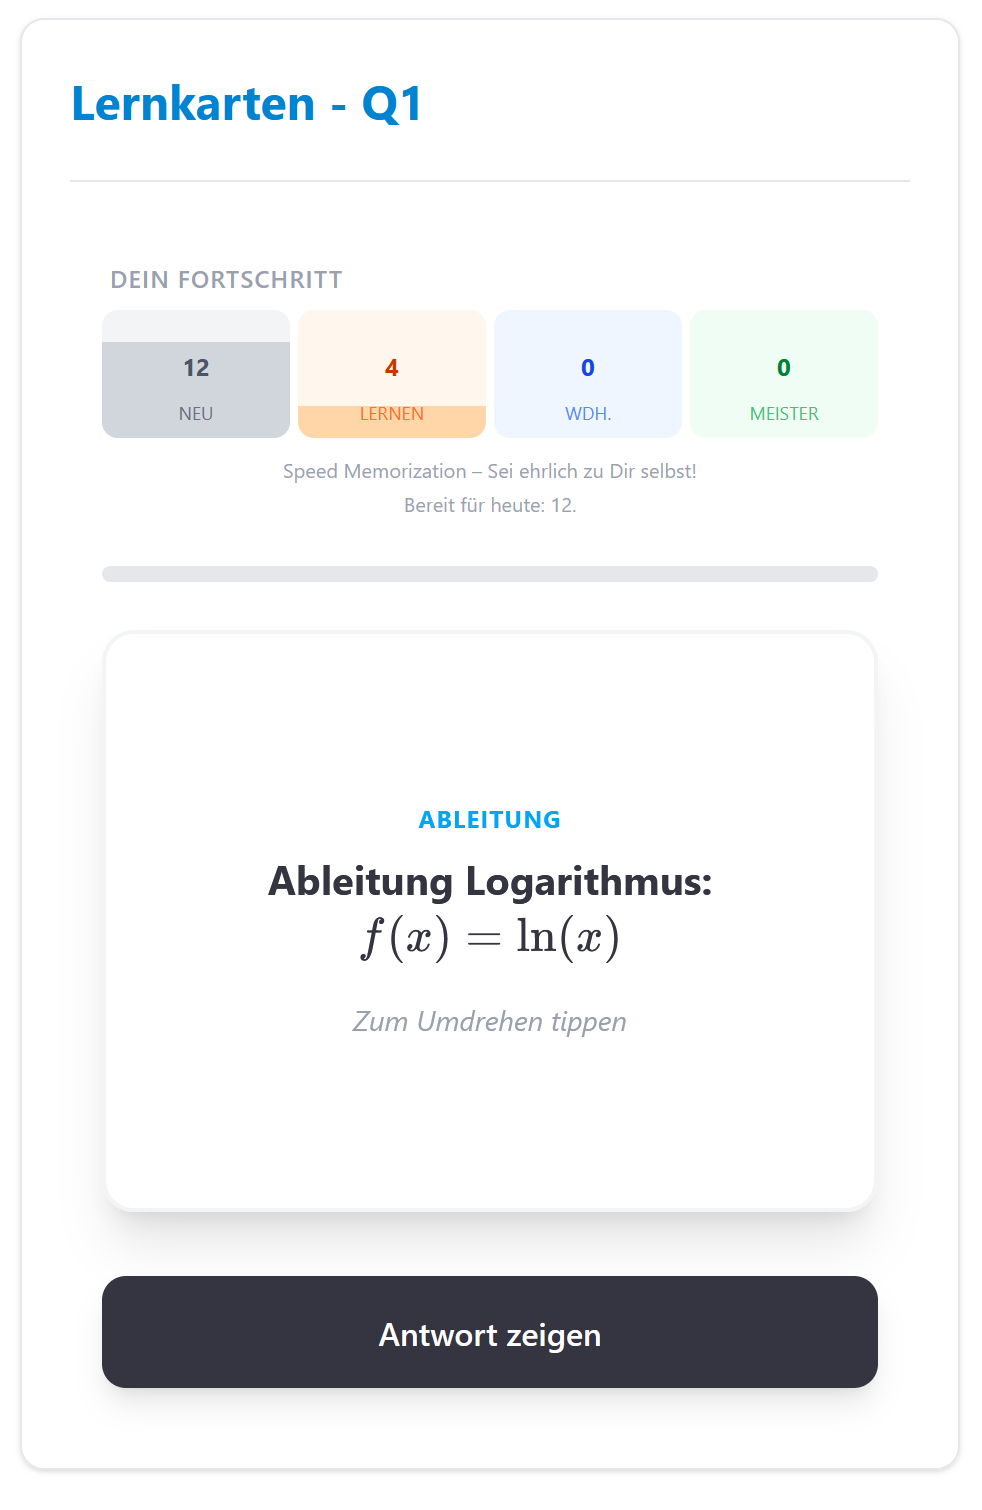
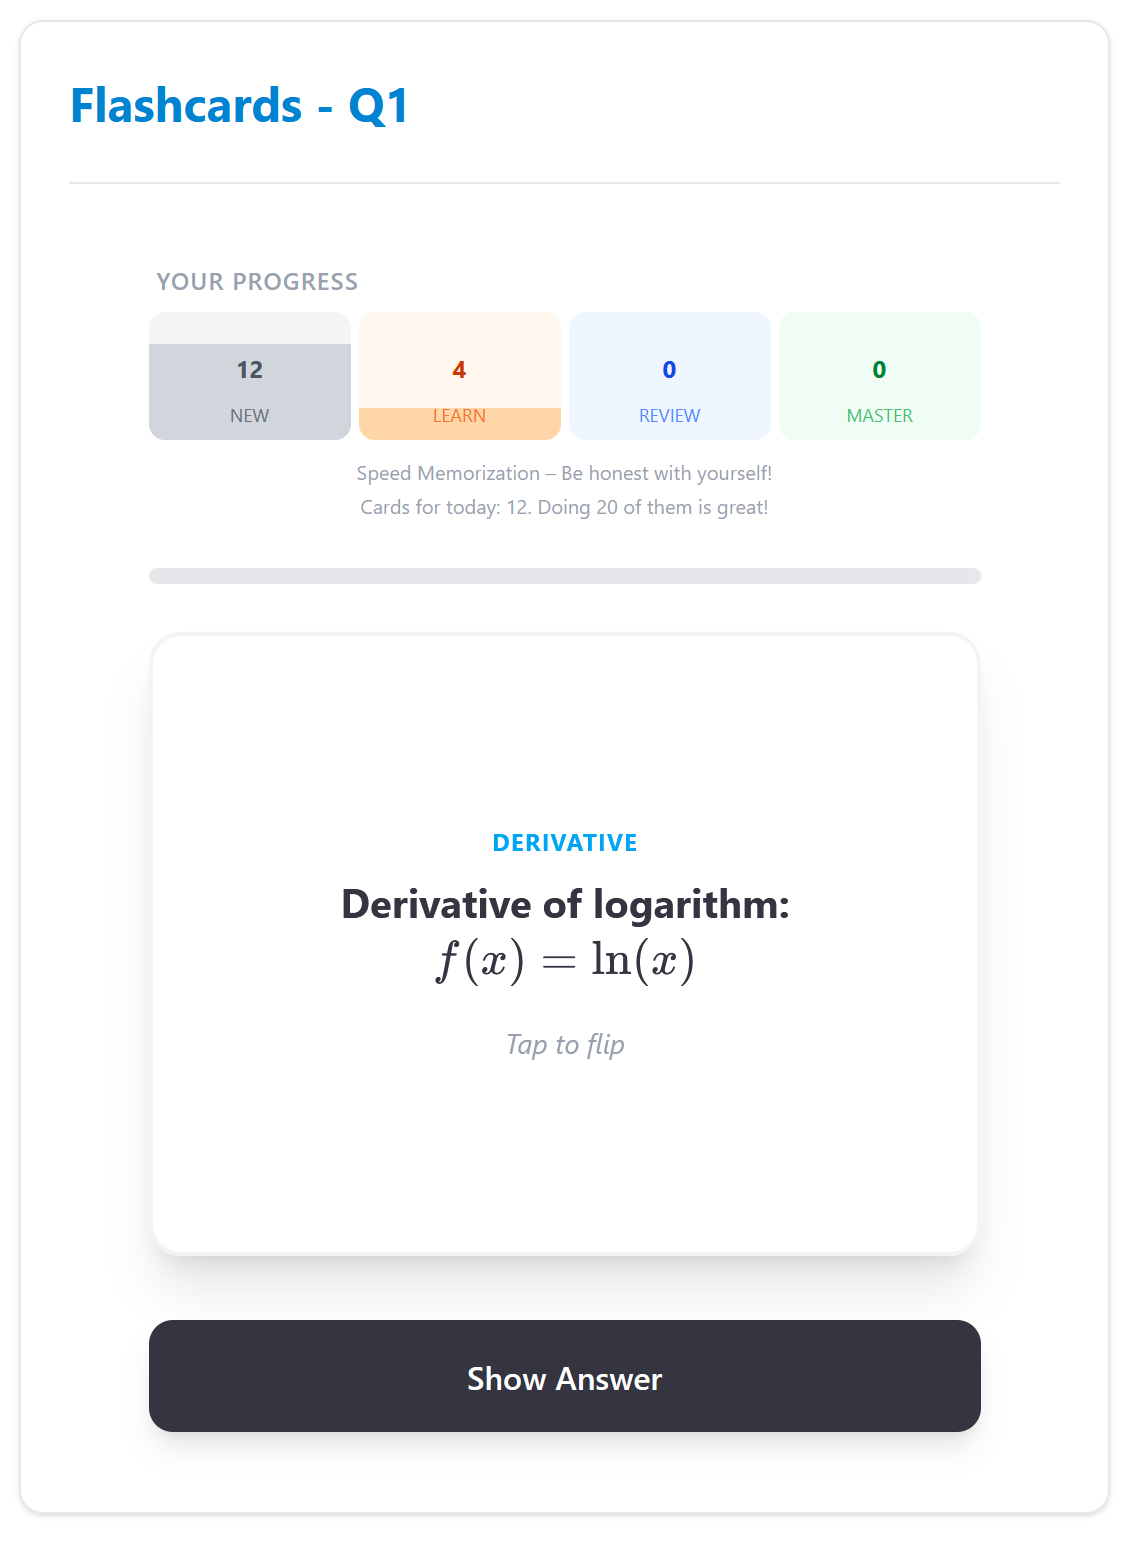
whitepaper update + strict mode

diff --git a/app/src/components/PersonalCurriculumSetup.tsx b/app/src/components/PersonalCurriculumSetup.tsx
@@ -26,7 +26,8 @@ interface PersonalCurriculumSetupProps {
     rootLandscapeId?: string
     initialStrategy?: 'RANDOM' | 'SEQUENTIAL'
     initialAutoPilot?: boolean
-    onPreferencesChange?: (strategy: 'RANDOM' | 'SEQUENTIAL', autoPilot: boolean) => void
+    initialStrictMode?: boolean
+    onPreferencesChange?: (strategy: 'RANDOM' | 'SEQUENTIAL', autoPilot: boolean, strictMode: boolean) => void
 }
 
 export const PersonalCurriculumSetup: React.FC<PersonalCurriculumSetupProps> = ({
@@ -38,6 +39,7 @@ export const PersonalCurriculumSetup: React.FC<PersonalCurriculumSetupProps> = (
     rootLandscapeId,
     initialStrategy = 'RANDOM',
     initialAutoPilot = false,
+    initialStrictMode = false,
     onPreferencesChange,
 }) => {
     const computedInitial = React.useMemo(() => {
@@ -52,6 +54,7 @@ export const PersonalCurriculumSetup: React.FC<PersonalCurriculumSetupProps> = (
     const [config, setConfig] = useState<PersonalCurriculumConfig>(computedInitial)
     const [strategy, setStrategy] = useState<'RANDOM' | 'SEQUENTIAL'>(initialStrategy)
     const [autoPilot, setAutoPilot] = useState<boolean>(initialAutoPilot)
+    const [strictMode, setStrictMode] = useState<boolean>(initialStrictMode)
     const [expanded, setExpanded] = useState<Set<string>>(new Set())
 
     // Update config when initialConfig changes (e.g. loaded from backend)
@@ -62,16 +65,22 @@ export const PersonalCurriculumSetup: React.FC<PersonalCurriculumSetupProps> = (
     useEffect(() => {
         setStrategy(initialStrategy)
         setAutoPilot(initialAutoPilot)
-    }, [initialStrategy, initialAutoPilot])
+        setStrictMode(initialStrictMode)
+    }, [initialStrategy, initialAutoPilot, initialStrictMode])
 
     const handleStrategyChange = (newStrategy: 'RANDOM' | 'SEQUENTIAL') => {
         setStrategy(newStrategy)
-        onPreferencesChange?.(newStrategy, autoPilot)
+        onPreferencesChange?.(newStrategy, autoPilot, strictMode)
     }
 
     const handleAutoPilotChange = (newAutoPilot: boolean) => {
         setAutoPilot(newAutoPilot)
-        onPreferencesChange?.(strategy, newAutoPilot)
+        onPreferencesChange?.(strategy, newAutoPilot, strictMode)
+    }
+
+    const handleStrictModeChange = (newStrictMode: boolean) => {
+        setStrictMode(newStrictMode)
+        onPreferencesChange?.(strategy, autoPilot, newStrictMode)
     }
 
     const toggleSelection = (landscapeId: string, isRoot: boolean) => {
@@ -267,6 +276,19 @@ export const PersonalCurriculumSetup: React.FC<PersonalCurriculumSetupProps> = (
                                     <div>
                                         <span className="text-sm font-medium text-text-primary">Autopilot aktivieren</span>
                                         <p className="text-xs text-text-secondary">Startet automatisch das nächste Ziel nach Abschluss.</p>
+                                    </div>
+                                </label>
+
+                                <label className="flex items-center gap-2 cursor-pointer">
+                                    <input
+                                        type="checkbox"
+                                        checked={strictMode}
+                                        onChange={(e) => handleStrictModeChange(e.target.checked)}
+                                        className="w-4 h-4 rounded text-amber-600 focus:ring-amber-500 border-gray-300 bg-white dark:bg-slate-800 dark:border-slate-600"
+                                    />
+                                    <div>
+                                        <span className="text-sm font-medium text-text-primary">Strict Mode aktivieren</span>
+                                        <p className="text-xs text-text-secondary">Prüft alle Voraussetzungen global, auch außerhalb deines aktuellen Fokus.</p>
                                     </div>
                                 </label>
                             </div>

diff --git a/app/src/views/LearnerView.tsx b/app/src/views/LearnerView.tsx
@@ -785,8 +785,8 @@ export const LearnerView: React.FC<LearnerViewProps> = ({
   }, [skillpilotId, refreshState])
 
   // Save preferences to backend
-  const handlePreferencesChange = useCallback(async (strategy: 'RANDOM' | 'SEQUENTIAL', autoPilot: boolean) => {
-    setLearnerData(prev => prev ? { ...prev, learningStrategy: strategy, autoPilot } : null)
+  const handlePreferencesChange = useCallback(async (strategy: 'RANDOM' | 'SEQUENTIAL', autoPilot: boolean, strictMode: boolean) => {
+    setLearnerData(prev => prev ? { ...prev, learningStrategy: strategy, autoPilot, strictMode } : null)
 
     if (!skillpilotId) return
     try {
@@ -795,12 +795,14 @@ export const LearnerView: React.FC<LearnerViewProps> = ({
       await fetch(url, {
         method: 'PUT',
         headers: { 'Content-Type': 'application/json' },
-        body: JSON.stringify({ learningStrategy: strategy, autoPilot })
+        body: JSON.stringify({ learningStrategy: strategy, autoPilot, strictMode })
       })
+      // Refresh state to reflect strict mode changes in frontier
+      await refreshState(true)
     } catch (e) {
       console.warn('Failed to save preferences', e)
     }
-  }, [skillpilotId])
+  }, [skillpilotId, refreshState])
 
   // Save preferences to backend
 
@@ -1362,6 +1364,7 @@ export const LearnerView: React.FC<LearnerViewProps> = ({
         rootLandscapeId={rootLandscapeId}
         initialStrategy={learnerData?.learningStrategy}
         initialAutoPilot={learnerData?.autoPilot}
+        initialStrictMode={learnerData?.strictMode}
         onPreferencesChange={handlePreferencesChange}
       />
 

diff --git a/app/src/learnerTypes.ts b/app/src/learnerTypes.ts
@@ -21,6 +21,7 @@ export interface Learner {
   personalCurriculum: string;
   learningStrategy?: 'RANDOM' | 'SEQUENTIAL';
   autoPilot?: boolean;
+  strictMode?: boolean;
   copySources: CopySource[];
   activeGoalId?: string;
 }

diff --git a/backend/src/main/java/com/skillpilot/backend/service/LearnerService.java b/backend/src/main/java/com/skillpilot/backend/service/LearnerService.java
@@ -681,13 +681,16 @@ public class LearnerService {
     }
 
     @Transactional
-    public void setPreferences(String skillpilotId, String learningStrategy, Boolean autoPilot) {
+    public void setPreferences(String skillpilotId, String learningStrategy, Boolean autoPilot, Boolean strictMode) {
         Learner learner = getLearner(skillpilotId);
         if (learningStrategy != null) {
             learner.setLearningStrategy(learningStrategy);
         }
         if (autoPilot != null) {
             learner.setAutoPilot(autoPilot);
+        }
+        if (strictMode != null) {
+            learner.setStrictMode(strictMode);
         }
     }
 
@@ -839,6 +842,9 @@ public class LearnerService {
             return Collections.emptyList();
         }
 
+        // Check if strict mode is enabled
+        boolean strictMode = Boolean.TRUE.equals(learner.getStrictMode());
+
         // 1. Get Filtered Goals (for display/frontier candidates)
         Map<String, LearningGoal> allFilteredGoals = getFilteredGoals(curriculumId, learner.getPersonalCurriculum());
 
@@ -853,6 +859,14 @@ public class LearnerService {
         Map<String, List<String>> effectiveRequires = computeEffectiveRequires(allFilteredGoals);
         Map<String, Double> effectivePrereqMastery = computeEffectivePrereqMastery(allFilteredGoals, masteryMap);
 
+        // For strict mode: compute global effective requires and prereq mastery
+        Map<String, List<String>> globalEffectiveRequires = strictMode
+                ? computeEffectiveRequires(allStructuralGoals)
+                : effectiveRequires;
+        Map<String, Double> globalEffectivePrereqMastery = strictMode
+                ? computeEffectivePrereqMastery(allStructuralGoals, masteryMap)
+                : effectivePrereqMastery;
+
         // Calculate Scope (Plan + Descendants + Prerequisites)
         List<String> plannedIds = getPlannedGoals(skillpilotId);
 
@@ -864,6 +878,7 @@ public class LearnerService {
 
         System.out.println("DEBUG_SKILLPILOT: getRichFrontier - Plan: " + plannedIds);
         System.out.println("DEBUG_SKILLPILOT: getRichFrontier - Scope Size: " + scope.size());
+        System.out.println("DEBUG_SKILLPILOT: getRichFrontier - Strict Mode: " + strictMode);
         if (!plannedIds.isEmpty() && scope.size() < 10) {
             System.out.println("DEBUG_SKILLPILOT: Scope Content: " + scope);
         }
@@ -891,22 +906,37 @@ public class LearnerService {
             }
 
             boolean prerequisitesMet = true;
-            List<String> requires = effectiveRequires.getOrDefault(goal.getId(), goal.getRequires());
+            // In strict mode, use global requires; otherwise use filtered requires
+            List<String> requires = strictMode
+                    ? globalEffectiveRequires.getOrDefault(goal.getId(), goal.getRequires())
+                    : effectiveRequires.getOrDefault(goal.getId(), goal.getRequires());
             if (requires != null) {
                 for (String reqId : requires) {
-                    String resolvedReqId = resolveGoalRef(reqId, allFilteredGoals);
+                    // In strict mode, resolve against ALL structural goals
+                    Map<String, LearningGoal> lookupMap = strictMode ? allStructuralGoals : allFilteredGoals;
+                    String resolvedReqId = resolveGoalRef(reqId, lookupMap);
                     if (resolvedReqId == null) {
-                        // Ignore prerequisites that are filtered out or unknown in the current focus
-                        continue;
-                    }
-                    // PRAGMATIC FILTERING:
-                    // If a prerequisite is NOT in scope (and we have a restricted scope), ignore
-                    // it.
-                    if (!plannedIds.isEmpty() && !scope.contains(resolvedReqId)) {
+                        if (strictMode) {
+                            // In strict mode, unknown prerequisite means blocked
+                            prerequisitesMet = false;
+                            break;
+                        }
+                        // Optimistic: ignore prerequisites that are filtered out or unknown
                         continue;
                     }
 
-                    Double reqMastery = effectivePrereqMastery.getOrDefault(resolvedReqId, 0.0);
+                    // In strict mode, do NOT skip out-of-scope prerequisites
+                    if (!strictMode && !plannedIds.isEmpty() && !scope.contains(resolvedReqId)) {
+                        // PRAGMATIC FILTERING (optimistic mode only):
+                        // If a prerequisite is NOT in scope (and we have a restricted scope), ignore
+                        // it.
+                        continue;
+                    }
+
+                    // In strict mode, use global mastery; otherwise use filtered prereq mastery
+                    Double reqMastery = strictMode
+                            ? globalEffectivePrereqMastery.getOrDefault(resolvedReqId, 0.0)
+                            : effectivePrereqMastery.getOrDefault(resolvedReqId, 0.0);
                     if (reqMastery < 0.9) {
                         prerequisitesMet = false;
                         break;

diff --git a/backend/src/main/java/com/skillpilot/backend/domain/Learner.java b/backend/src/main/java/com/skillpilot/backend/domain/Learner.java
@@ -50,6 +50,9 @@ public class Learner {
     @Column(name = "auto_pilot")
     private Boolean autoPilot = false;
 
+    @Column(name = "strict_mode")
+    private Boolean strictMode = false;
+
     @jakarta.persistence.ElementCollection(fetch = jakarta.persistence.FetchType.EAGER)
     @jakarta.persistence.CollectionTable(name = "learner_copy_sources", joinColumns = @jakarta.persistence.JoinColumn(name = "learner_id"))
     private java.util.Set<CopySource> copySources = new java.util.HashSet<>();
@@ -134,6 +137,14 @@ public class Learner {
         this.autoPilot = autoPilot;
     }
 
+    public Boolean getStrictMode() {
+        return strictMode;
+    }
+
+    public void setStrictMode(Boolean strictMode) {
+        this.strictMode = strictMode;
+    }
+
     // Needed for JPA toolchain to set generated ID
     public void setSkillpilotId(String skillpilotId) {
         this.skillpilotId = skillpilotId;
@@ -152,6 +163,9 @@ public class Learner {
         }
         if (this.autoPilot == null) {
             this.autoPilot = false;
+        }
+        if (this.strictMode == null) {
+            this.strictMode = false;
         }
     }
 }

diff --git a/backend/src/main/java/com/skillpilot/backend/ui/LearnerUiController.java b/backend/src/main/java/com/skillpilot/backend/ui/LearnerUiController.java
@@ -128,7 +128,8 @@ public class LearnerUiController {
     @Operation(extensions = @Extension(properties = @ExtensionProperty(name = "x-openai-isConsequential", value = "false", parseValue = true)))
     public void updatePreferences(@PathVariable String skillpilotId,
             @RequestBody com.skillpilot.backend.api.PreferencesRequest request) {
-        learnerService.setPreferences(skillpilotId, request.learningStrategy(), request.autoPilot());
+        learnerService.setPreferences(skillpilotId, request.learningStrategy(), request.autoPilot(),
+                request.strictMode());
     }
 
     @PutMapping("/{skillpilotId}/personal-curriculum")

diff --git a/backend/src/main/java/com/skillpilot/backend/api/PreferencesRequest.java b/backend/src/main/java/com/skillpilot/backend/api/PreferencesRequest.java
@@ -1,6 +1,7 @@
 package com.skillpilot.backend.api;
 
 public record PreferencesRequest(
-        String learningStrategy,
-        Boolean autoPilot) {
+                String learningStrategy,
+                Boolean autoPilot,
+                Boolean strictMode) {
 }

diff --git a/app/public/whitepaper/whitepaper.en.md b/app/public/whitepaper/whitepaper.en.md
@@ -1,7 +1,7 @@
 # SkillPilot Whitepaper (EN)
 
-**Version:** 1.0.14
-**Date:** January 2026
+**Version:** 1.0.15
+**Date:** February 2026
 **Project:** SkillPilot
 
 ---
@@ -62,7 +62,7 @@ This is about:
 
 * **Operationalization:** learning outcomes are broken down into atomic skill goals (without changing the standard).
 * **Traceability:** each skill remains traceable to source/section/version.
-* **Navigability:** prerequisites and hierarchies are modeled explicitly so paths are plannable (didactic prereqs possibly as **overlays**). The graph does not enforce rigid paths: It supports pedagogical flexibility: In **'Optimistic Mode'** browsing and exploration are allowed, while for certificates the **'Pessimistic Mode'** checks if all gaps in the foundation are closed.
+* **Navigability:** prerequisites and hierarchies are modeled explicitly so paths are plannable (didactic prereqs possibly as **overlays**). The graph does not enforce rigid paths: It supports pedagogical flexibility. The **Optimistic Mode** checks prerequisites only **within the selected filter** (e.g., grade level), allowing learners to enter directly in the target year without blocking due to gaps from earlier years. When learners struggle, the tutor switches to diagnostic **Pessimistic Mode** to identify the missing foundation.
 * **Governance:** changes currently run via GitHub (Issues/PRs), versioning via GitHub history (see section 6).
 
 #### Map: Nodes & Edges
@@ -72,10 +72,26 @@ This is about:
   * **Prerequisites:** "A before B"
   * **Contains/Part-of:** "X includes Y and Z"
 
+#### Three Node Types in Practice
+
+SkillPilot distinguishes three **node types** that reflect different learning modes:
+
+* **Tutorial:** All subject topics are explained and practiced with the AI tutor.
+* **Memorize:** Individual facts are memorized (flashcards/SRS).
+* **Exam:** Abitur-style tasks are solved independently (e.g., photo from notebook/paper), immediately graded (points, pass/fail, errors), and then explained.
+
+In the curriculum **Upper Secondary School (DE, HE, G9, Secondary II) – Mathematics (QA Stage 2)**, **all three node types** are used.
+
+![Exam Node (Example)](examnode.en.png)
+
+**Formal specification:** The mathematical definition of the graph (e.g., acyclicity, Effective Requires) is publicly documented:  
+https://enpasos.github.io/skillpilot/concept/curriculum-graph/graph-definition/
+
 #### Frontier: Next Reachable Steps
 
 SkillPilot computes the **frontier**: skills whose prerequisites are met but not yet mastered.  
 This avoids jumps and keeps learning in the zone of sensible next steps. We call this boundary of current knowledge the **Frontier** (didactically: Zone of Proximal Development according to Vygotsky). It marks exactly the skills that are learnable next.
+The **frontier is not an AI recommendation**, but the mathematically computed set of all logically unlocked learning goals.
 
 ![The AI Tutor](Tutor.en.png)
 
@@ -187,7 +203,14 @@ SkillPilot is not just a concept: it already contains curricula/standards as sta
 2. **Stage 2 – QA by Curriculum Champion**  
    A Curriculum Champion has mastered a curriculum or a module inside SkillPilot, cleaned errors in the curriculum and SkillPilot, and awarded a **QA checkmark**. A curriculum can collect multiple QA checkmarks.
 
-**Current status:** All curricula are currently in **Stage 1**; no QA checkmarks yet. You can see the current status at https://skillpilot.com/curricula.
+**Current status:** The subject **Mathematics** for **Gymnasiale Oberstufe (DE, HE, G9, Secondary II)** has now reached **Stage 2**. All other curricula are currently in **Stage 1**. The current status is visible at https://skillpilot.com/curricula.  
+![QA Example Mathematics (Stage 2)](champion.en.png)
+
+**Curriculum Champions (practice anchor):**  
+![Curriculum Champion comic](../comic3/champion.en.png)  
+* Champions take responsibility for a curriculum or a **clearly scoped topic area**.
+* They work through the curriculum, gather practice feedback, and channel it into Issues/PRs.
+* Visibility creates accountability: Champion profiles show engagement (e.g., Issues/PRs) and progress.
 
 The QA process does not only cover curricula: the SkillPilot AI tutor is continuously qualified in real-world use so that the experience remains reliable and didactically sound across curricula.
 
@@ -240,12 +263,6 @@ SkillPilot is released as **open source** under the **Apache-2.0 license** - an 
 * Coupling content to skill goals is possible in the future.
 * Open interfaces enable contributions and integration.
 
-**Curriculum Champions (practice anchor):**
-![Curriculum Champion comic](../comic3/champion.en.png)
-* Champions take responsibility for a curriculum or a **clearly scoped topic area**.
-* They work through the curriculum, gather practice feedback, and channel it into Issues/PRs.
-* Visibility creates accountability: Champion profiles show engagement (e.g., Issues/PRs) and progress.
-
 **Governance & quality assurance (currently via GitHub + Champion program):**
 * Feedback flows through **GitHub Issues**, often initiated by champions.
 * Changes to the curriculum/graph run through **pull requests** (review on GitHub).
@@ -255,6 +272,12 @@ SkillPilot is released as **open source** under the **Apache-2.0 license** - an 
 **Initiator:**  
 The legal entity behind SkillPilot is **enpasos GmbH**. We invite partners to develop SkillPilot further together - in content, didactics, and technology.
 
-Start your pilot immediately and without registration (ID-based): A guide for the 5-minute start can be found at https://skillpilot.com/quickstart/en.
+Start your pilot immediately and without registration **(ID-based)**: A guide for the 5-minute start can be found at https://skillpilot.com/quickstart/en.  
+Note: Your **ID is the only key** to your data - store it safely.
+
+**More transparency:**  
+GitHub: https://github.com/enpasos/skillpilot  
+Documentation: https://enpasos.github.io/skillpilot/  
+Graph definition: https://enpasos.github.io/skillpilot/concept/curriculum-graph/graph-definition/
 
 ---

diff --git a/docs/concept/curriculum-graph/graph-definition.md b/docs/concept/curriculum-graph/graph-definition.md
@@ -337,9 +337,9 @@ g \in G_F \setminus M_F \ \middle|\
 \right\}.
 $$
 
-### 12.3 Pessimistic mode
+### 12.3 Pessimistic mode or strict mode
 
-In **pessimistic mode**, candidate goals are still restricted to the filtered set, but prerequisites are enforced **globally** (including nodes outside the filter).
+In **pessimistic mode** or **strict mode**, candidate goals are still restricted to the filtered set, but prerequisites are enforced **globally** (including nodes outside the filter).
 
 Let $R_{eff}$ be computed on the full graph $(G,C,R_d)$. Then:
 
